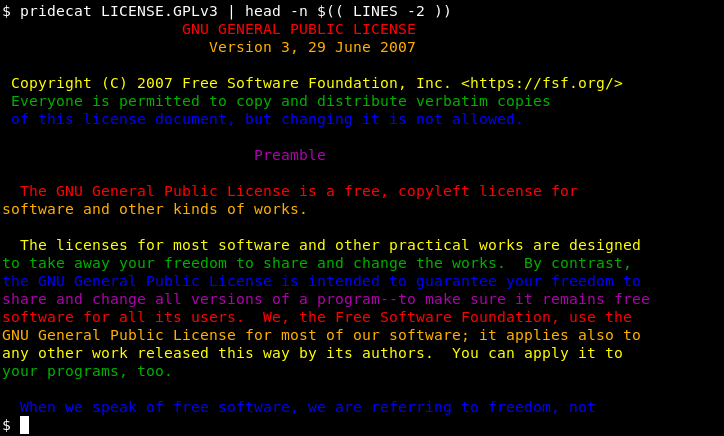
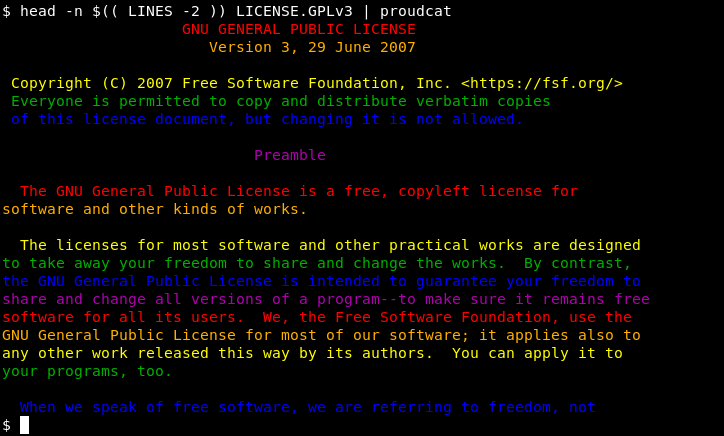
v0.1.0
* renamed to proudcat
* added setup.py
* added description
* added help to flags
* updated screenshot

fixes #1
fixes #2

Changed region(s): [[0.0304, 0.0, 0.6381, 0.0596]]

diff --git a/setup.py b/setup.py
@@ -1,0 +1,36 @@
+from pathlib import Path
+from setuptools import setup
+
+import proudcat
+
+long_description    = Path(__file__).with_name("README.md") \
+                      .read_text(encoding = "utf8")
+
+setup(
+  name              = "proudcat",
+  url               = "https://github.com/obfusk/proudcat",
+  description       = "proudcat - cat + :rainbow:",
+  long_description  = long_description,
+  version           = proudcat.__version__,
+  author            = "Felix C. Stegerman",
+  author_email      = "flx@obfusk.net",
+  license           = "GPLv3+",
+  classifiers       = [
+    "Development Status :: 4 - Beta",
+    "Environment :: Console",
+    "Intended Audience :: End Users/Desktop",
+    "License :: OSI Approved :: GNU General Public License v3 or later (GPLv3+)",
+    "Operating System :: POSIX :: Linux",
+    "Programming Language :: Python :: 3",
+    "Programming Language :: Python :: 3.5",
+    "Programming Language :: Python :: 3.6",
+    "Programming Language :: Python :: 3.7",
+    "Programming Language :: Python :: 3.8",
+    "Programming Language :: Python :: Implementation :: CPython",
+    "Topic :: Utilities",
+  ],
+  keywords          = "cat cli terminal colors colours",
+  scripts           = ["proudcat"],
+  python_requires   = ">=3.5",
+  install_requires  = ["click>=6.0"]
+)

diff --git a/proudcat.py b/proudcat.py
@@ -1,0 +1,1 @@
+proudcat

diff --git a/README.md b/README.md
@@ -5,7 +5,7 @@
     Date        : 2020-06-20
 
     Copyright   : Copyright (C) 2020  Felix C. Stegerman
-    Version     : v0.0.1
+    Version     : v0.1.0
     License     : GPLv3+
 
 <!-- }}}1 -->
@@ -14,16 +14,18 @@
 
 ## Description
 
-TODO
+proudcat - cat + :rainbow:
 
-## Examples
+proudcat is basically a variant of
+[`pridecat`](https://github.com/lunasorcery/pridecat)
+written in python.
 
 ![screenshot](screenshot.png)
 
 ## Help
 
 ```bash
-$ pridecat --help
+$ proudcat --help
 ```
 
 ## Requirements
@@ -32,14 +34,22 @@ Python >= 3.5 + click.
 
 ## Installing
 
-Install the dependencies, as e.g. debian packages or using `pip`:
+### Using pip
+
+```bash
+$ pip install proudcat
+```
+
+### Manually
+
+Install the dependencies (as e.g. debian packages or using `pip`):
 
 ```bash
 $ apt install python3-click       # debian/ubuntu
 $ pip install click               # pip
 ```
 
-Then just put `pridecat` somewhere on your `$PATH` (e.g. `~/bin`).
+Then just put `proudcat` somewhere on your `$PATH` (e.g. `~/bin`).
 
 ## License
 
